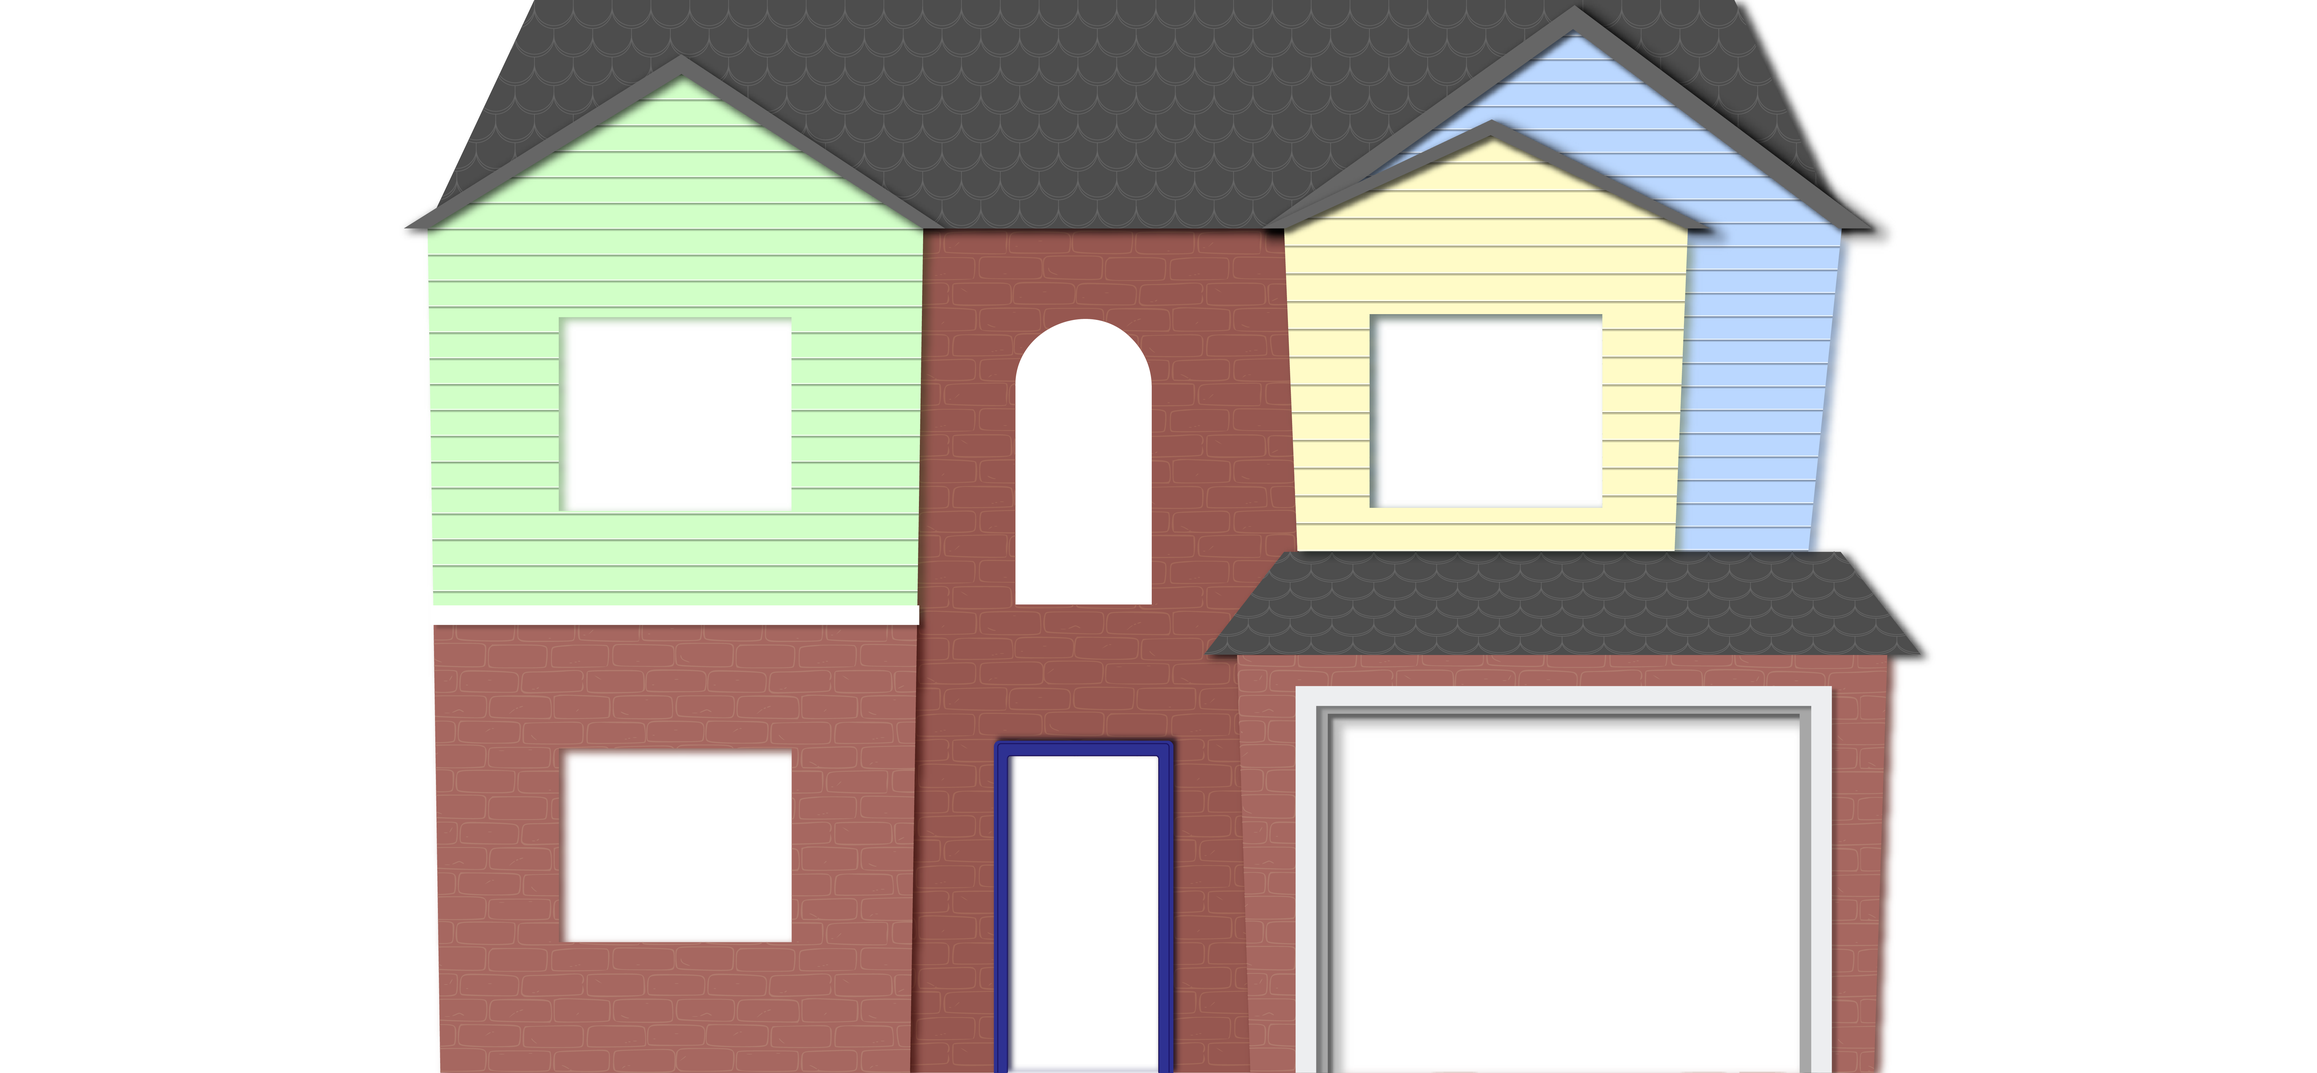
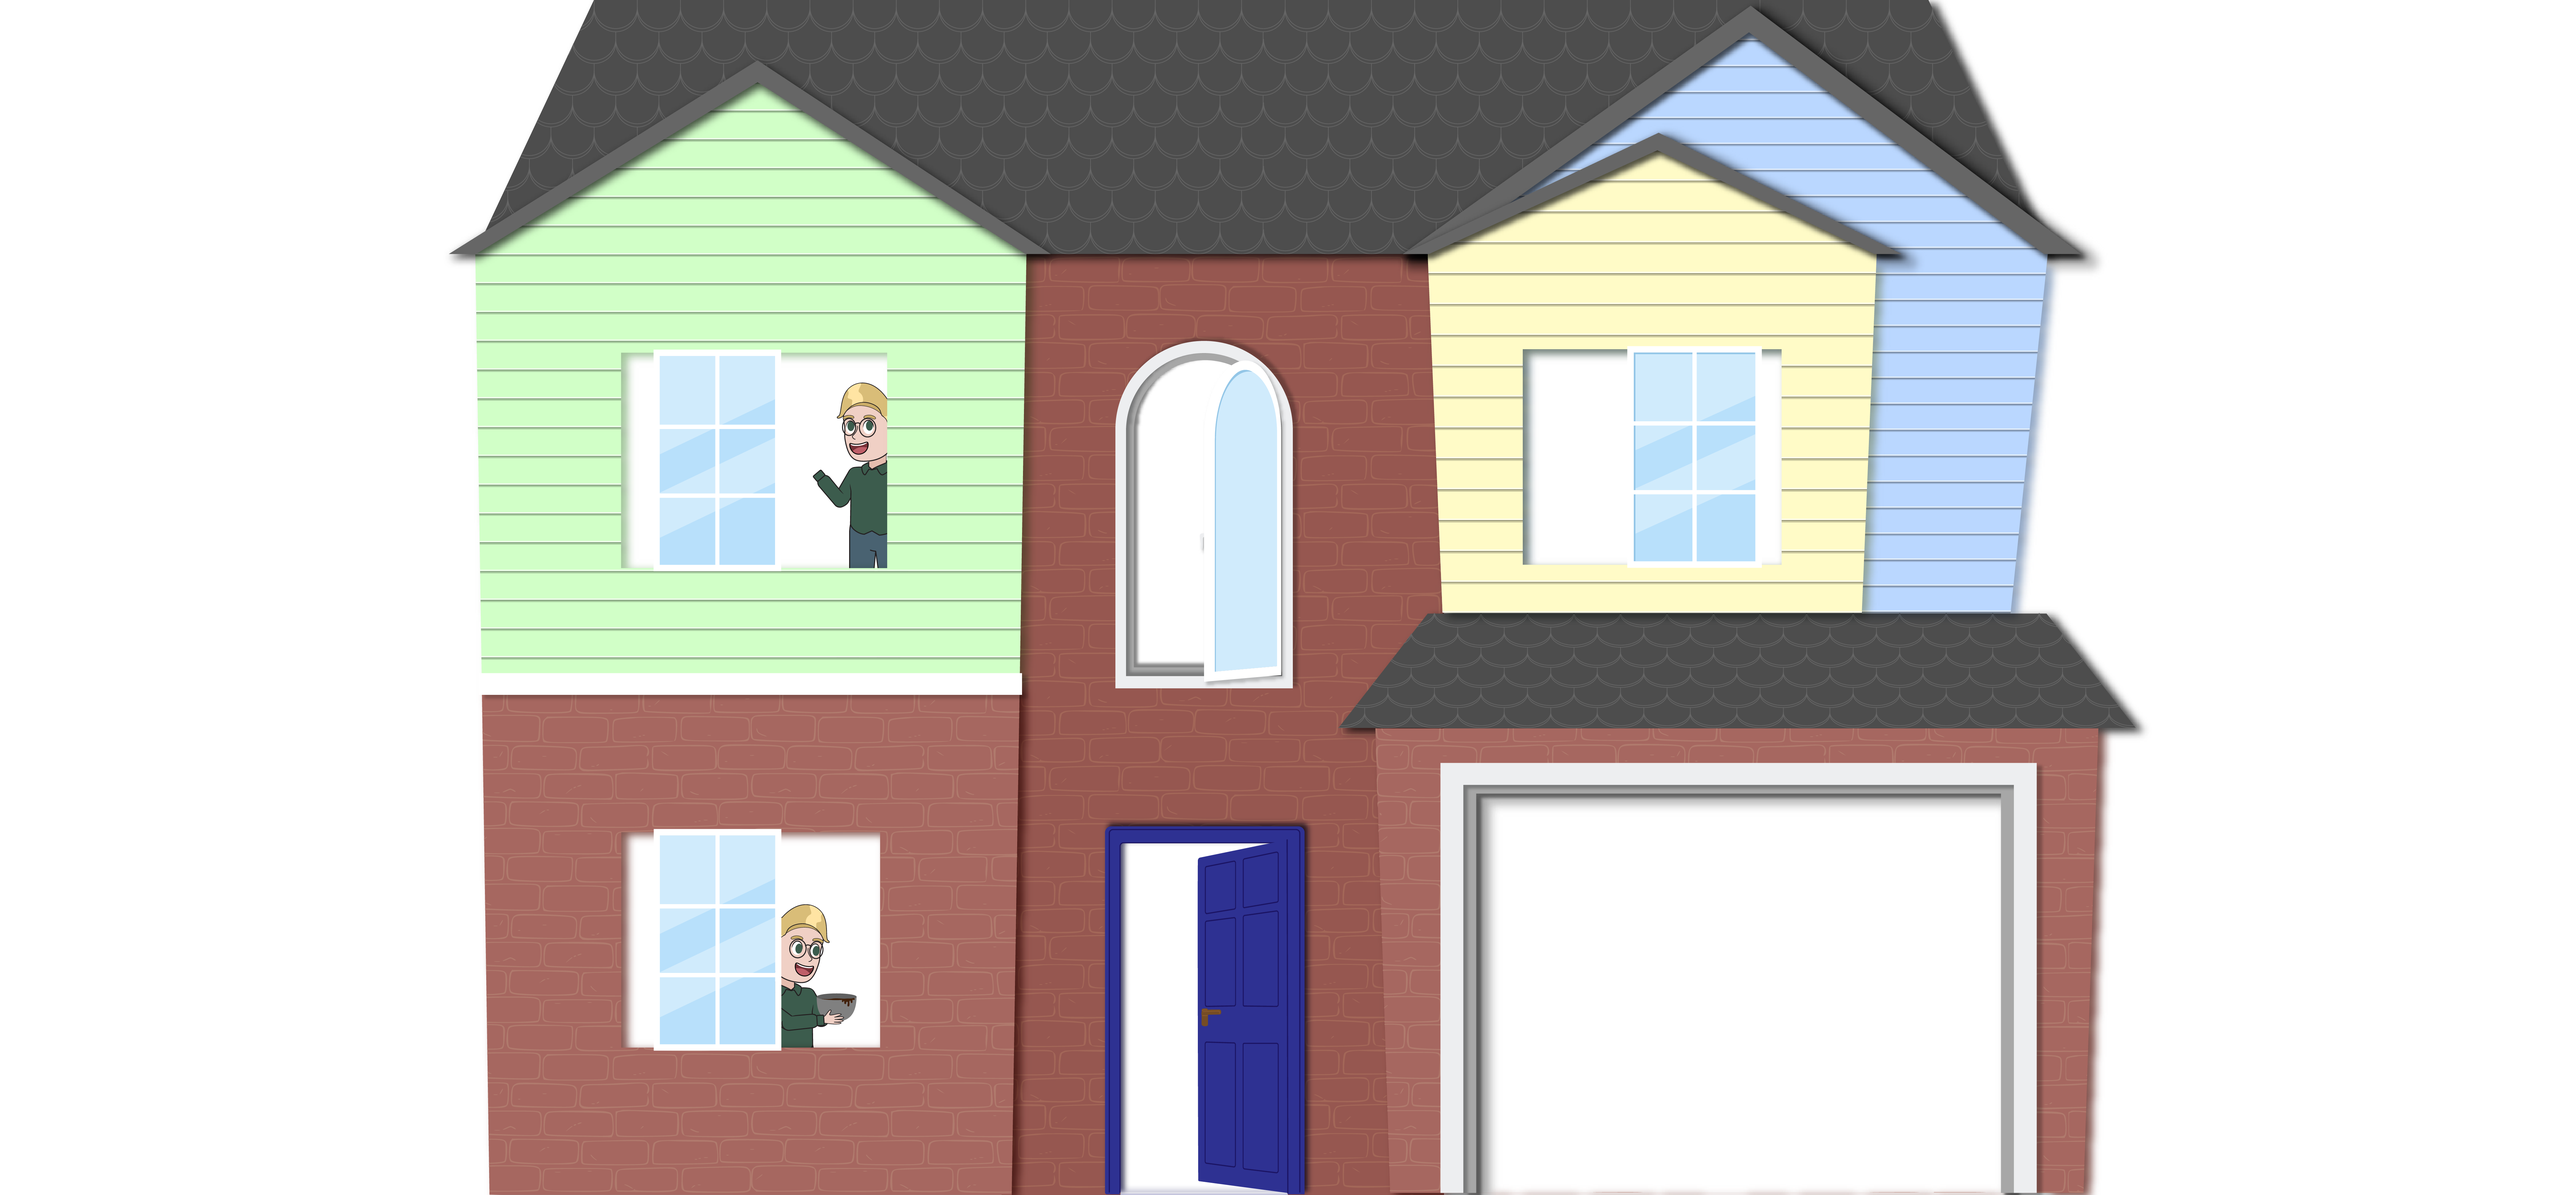
animations added

diff --git a/index.html b/index.html
@@ -5,6 +5,7 @@
     <meta name="viewport" content="width=device-width, initial-scale=1.0">
     <title>Carwyn Gilbert Portfolio</title>
     <link rel="stylesheet" href="main.css">
+    <link rel="stylesheet" href="animations.css">
     <script src="script.js" defer></script>
 </head>
 <body>
@@ -22,14 +23,20 @@
                 <img class="home cloud" id="left-cloud" src="images/house layers/1 left cloud.png" alt="a cloud">
                 <img class="home cloud" id="right-cloud" src="images/house layers/2 right cloud.png" alt="a cloud">
                 <img class="home house" id="interior" src="images/house layers/3 interior.png" alt="a peek inside a house revealing Carwyn working on projects in different rooms">
+                <img class="home house" id="umbrella" src="images/house layers/3.1 umbrella.png" alt="a folded umbrella in a holder">
+                <img class="home house" id="backwheel" src="images/house layers/3.2 back wheel.png" alt="a spinning wheel of a bicycle">
+                <img class="home house" id="hall-arm" src="images/house layers/3.3 hall arm.png" alt="a hand waving hello">
+                <img class="home house" id="kitchen-arm" src="images/house layers/3.4 kitchen arm.png" alt="a hand holding a wooden spoon with melted chocolate on it">
+                <img class="home house" id="craft-hand" src="images/house layers/3.5 craft hand.png" alt="a hand holding a pen">
+                <img class="home house" id="study-arm" src="images/house layers/3.6 study arm.png" alt="a hand holding a book">
                 <img class="home house" id="garage-door" src="images/house layers/4 garage door.png" alt="a garage door">
                 <img class="home house" id="main-building" src="images/house layers/5 main building.png" alt="a colorful house">
-                <img class="home house" id="craftroom-window" src="images/house layers/6 craftroom open window.png" alt="a window">
-                <img class="home house" id="kitchen-window" src="images/house layers/7 kitchen open window.png" alt="a window">
-                <img class="home house" id="study-window" src="images/house layers/8 study open window.png" alt="a window">
-                <img class="home house" id="windows" src="images/house layers/9 windows.png" alt="several windows">
-                <img class="home house" id="hall-window" src="images/house layers/10 arched window closed.png" alt="a window">
-                <img class="home house" id="closed-door" src="images/house layers/11 closed door.png" alt="a blue front door">
+                <img class="home house" id="craftroom-window" src="images/house layers/6 craftroom window.png" alt="a window">
+                <img class="home house" id="kitchen-window" src="images/house layers/7 kitchen window.png" alt="a window">
+                <img class="home house" id="study-window" src="images/house layers/8 study window.png" alt="a window">
+                <img class="home house" id="hall-window" src="images/house layers/9 hall window.png" alt="a window">
+                <img class="home house" id="windows" src="images/house layers/10 windows.png" alt="several windows">
+                <img class="home house" id="closed-door" src="images/house layers/11 door.png" alt="a blue front door">
         </div>
         <nav>
             <div class="topnav default" id="navbar">

diff --git a/animations.css b/animations.css
@@ -1,0 +1,63 @@
+@keyframes cloudAnimation {
+    0% {transform: translate(30%, 0);}
+    100% {transform: translate(-30%, 0);}
+}
+.cloud {
+    animation: cloudAnimation 20s linear infinite;
+    z-index: 1;
+}
+
+@keyframes umbrellaWiggle {
+    0% {transform: rotate(0deg);}
+    20% {transform: rotate(-10deg);}
+    60% {transform: rotate(10deg);}
+    100% {transform: rotate(0deg);}
+}
+
+#foyer:hover ~#umbrella {
+    transform-origin: 43.9% 90.4%;
+    animation: umbrellaWiggle 1.5s linear 2 alternate;
+}
+
+@keyframes wheelSpin {
+    0% {transform: rotate(0deg);}
+    100% {transform: rotate(-1080deg);}
+}
+#garage:hover ~ #backwheel { 
+    transform-origin: 76% 96%;
+    animation: wheelSpin 3s ease-in-out 3;
+}
+
+@keyframes handWave {
+    0% {transform: rotate(0deg);}
+    50% {transform: rotate(20deg);}
+    100% {transform: rotate(0deg);}
+}
+#hall:hover ~ #hall-arm { 
+    transform-origin: 46% 48.3%;
+    animation: handWave 2s infinite;
+}
+
+#kitchen:hover ~ #kitchen-arm { 
+    transform-origin: 31.8% 85.8%;
+    animation: handWave 2s infinite;
+}
+
+@keyframes penWave {
+    0% {transform: rotate(0deg);}
+    66.6% {transform: rotate(12deg);}
+}
+#craftroom:hover ~ #craft-hand { 
+    transform-origin: 31.8% 39.7%;
+    animation: penWave 1.5s infinite alternate;
+}
+
+@keyframes bookWave {
+    0% {transform: rotate(0deg);}
+    50% {transform: rotate(10deg);}
+    100% {transform: rotate(0deg);}
+}
+#study:hover ~ #study-arm { 
+    transform-origin: 61.1% 41.5%;
+    animation: bookWave 4s infinite;
+}

diff --git a/main.css b/main.css
@@ -198,6 +198,9 @@ ul a:visited {
     grid-template-columns: .8fr 1fr .8fr 1fr 1fr;
     grid-template-rows: .5fr 1fr 1fr;
 }
+.hero div {
+    align-self: center;
+}
 
 .home {
     grid-area: 1 / 1 / span 3 /span 5;
@@ -216,6 +219,7 @@ ul a:visited {
     object-fit: contain;
     max-width: 100%;
     max-height: 100%;
+    align-self: center;
 }
 
 #craftroom {
@@ -231,6 +235,7 @@ ul a:visited {
     grid-area: 2 / 3 / span 1 / span 1;
     z-index: 10;
     max-height: 100%;
+    align-self: end;
 }
 #hall:hover ~ #hall-window {
     z-index: -1;
@@ -258,6 +263,7 @@ ul a:visited {
     grid-area: 3 / 3 / span 1 / span 1;
     z-index: 10;
     max-height: 100%;
+    align-self: end;
 }
 #foyer:hover ~ #closed-door {
     z-index: -1;
@@ -267,6 +273,7 @@ ul a:visited {
     grid-area: 3 / 4 / span 1 / span 1;
     z-index: 10;
     max-height: 100%;
+    align-self: end;
 }
 #garage:hover ~ #garage-door {
     z-index: -1;
@@ -295,11 +302,3 @@ ul a:visited {
     padding-left: 5%;
 }
 
-@keyframes cloudAnimation {
-    0% {transform: translate(30%, 0);}
-    100% {transform: translate(-30%, 0);}
-}
-.cloud {
-    animation: cloudAnimation 20s linear infinite;
-    z-index: 1;
-}
